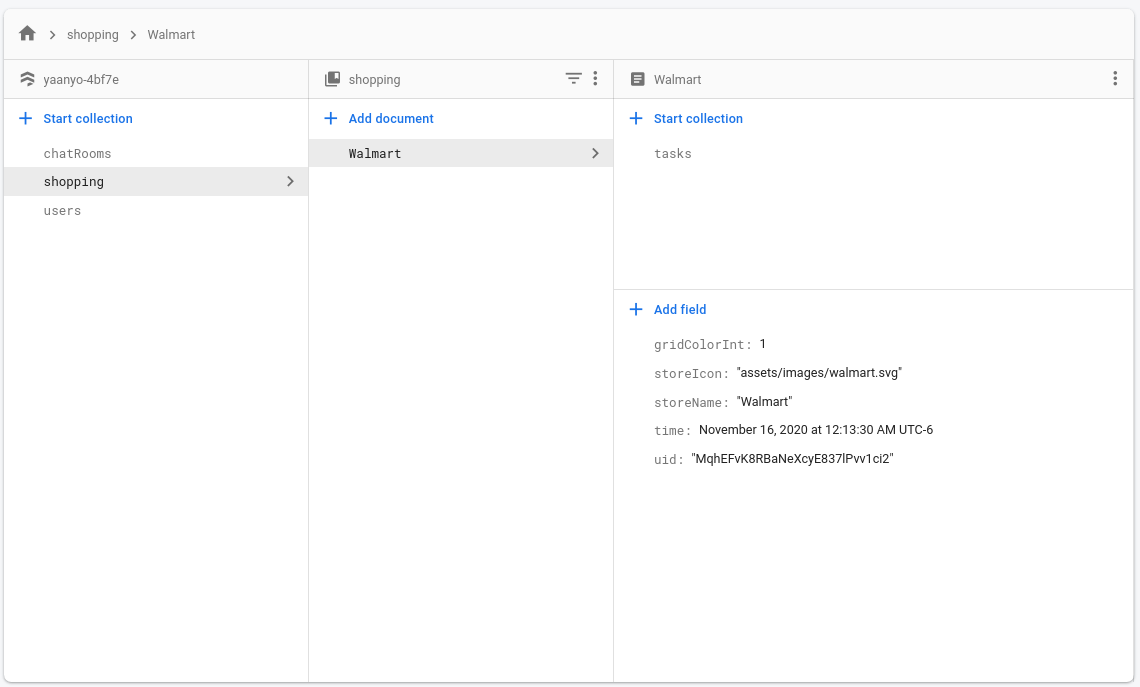
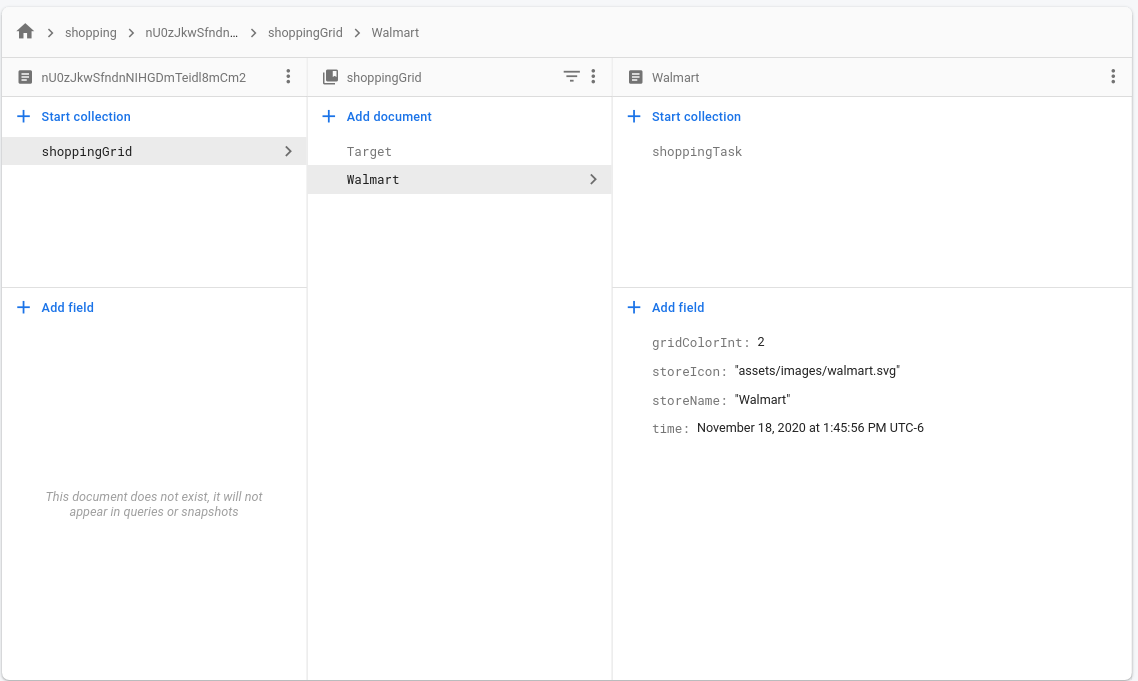
Updated README and screenshots

diff --git a/README.md b/README.md
@@ -32,7 +32,7 @@ Real time chat and shopping checklist made with flutter utilizing Firebase and C
 
 
 ## Cloud Firestore Data Structure
-<img src="readme_assets/chatRooms.png"> <img src="readme_assets/chats.png"> <img src="readme_assets/shoppingGrid.png"> <img src="readme_assets/shoppingTask.png">
+<img src="readme_assets/chatRooms.png"> <img src="readme_assets/chats.png"> <img src="readme_assets/shopping.png"> <img src="readme_assets/shoppingGrid.png"> <img src="readme_assets/shoppingTask.png">
 
 
 ## Installation
